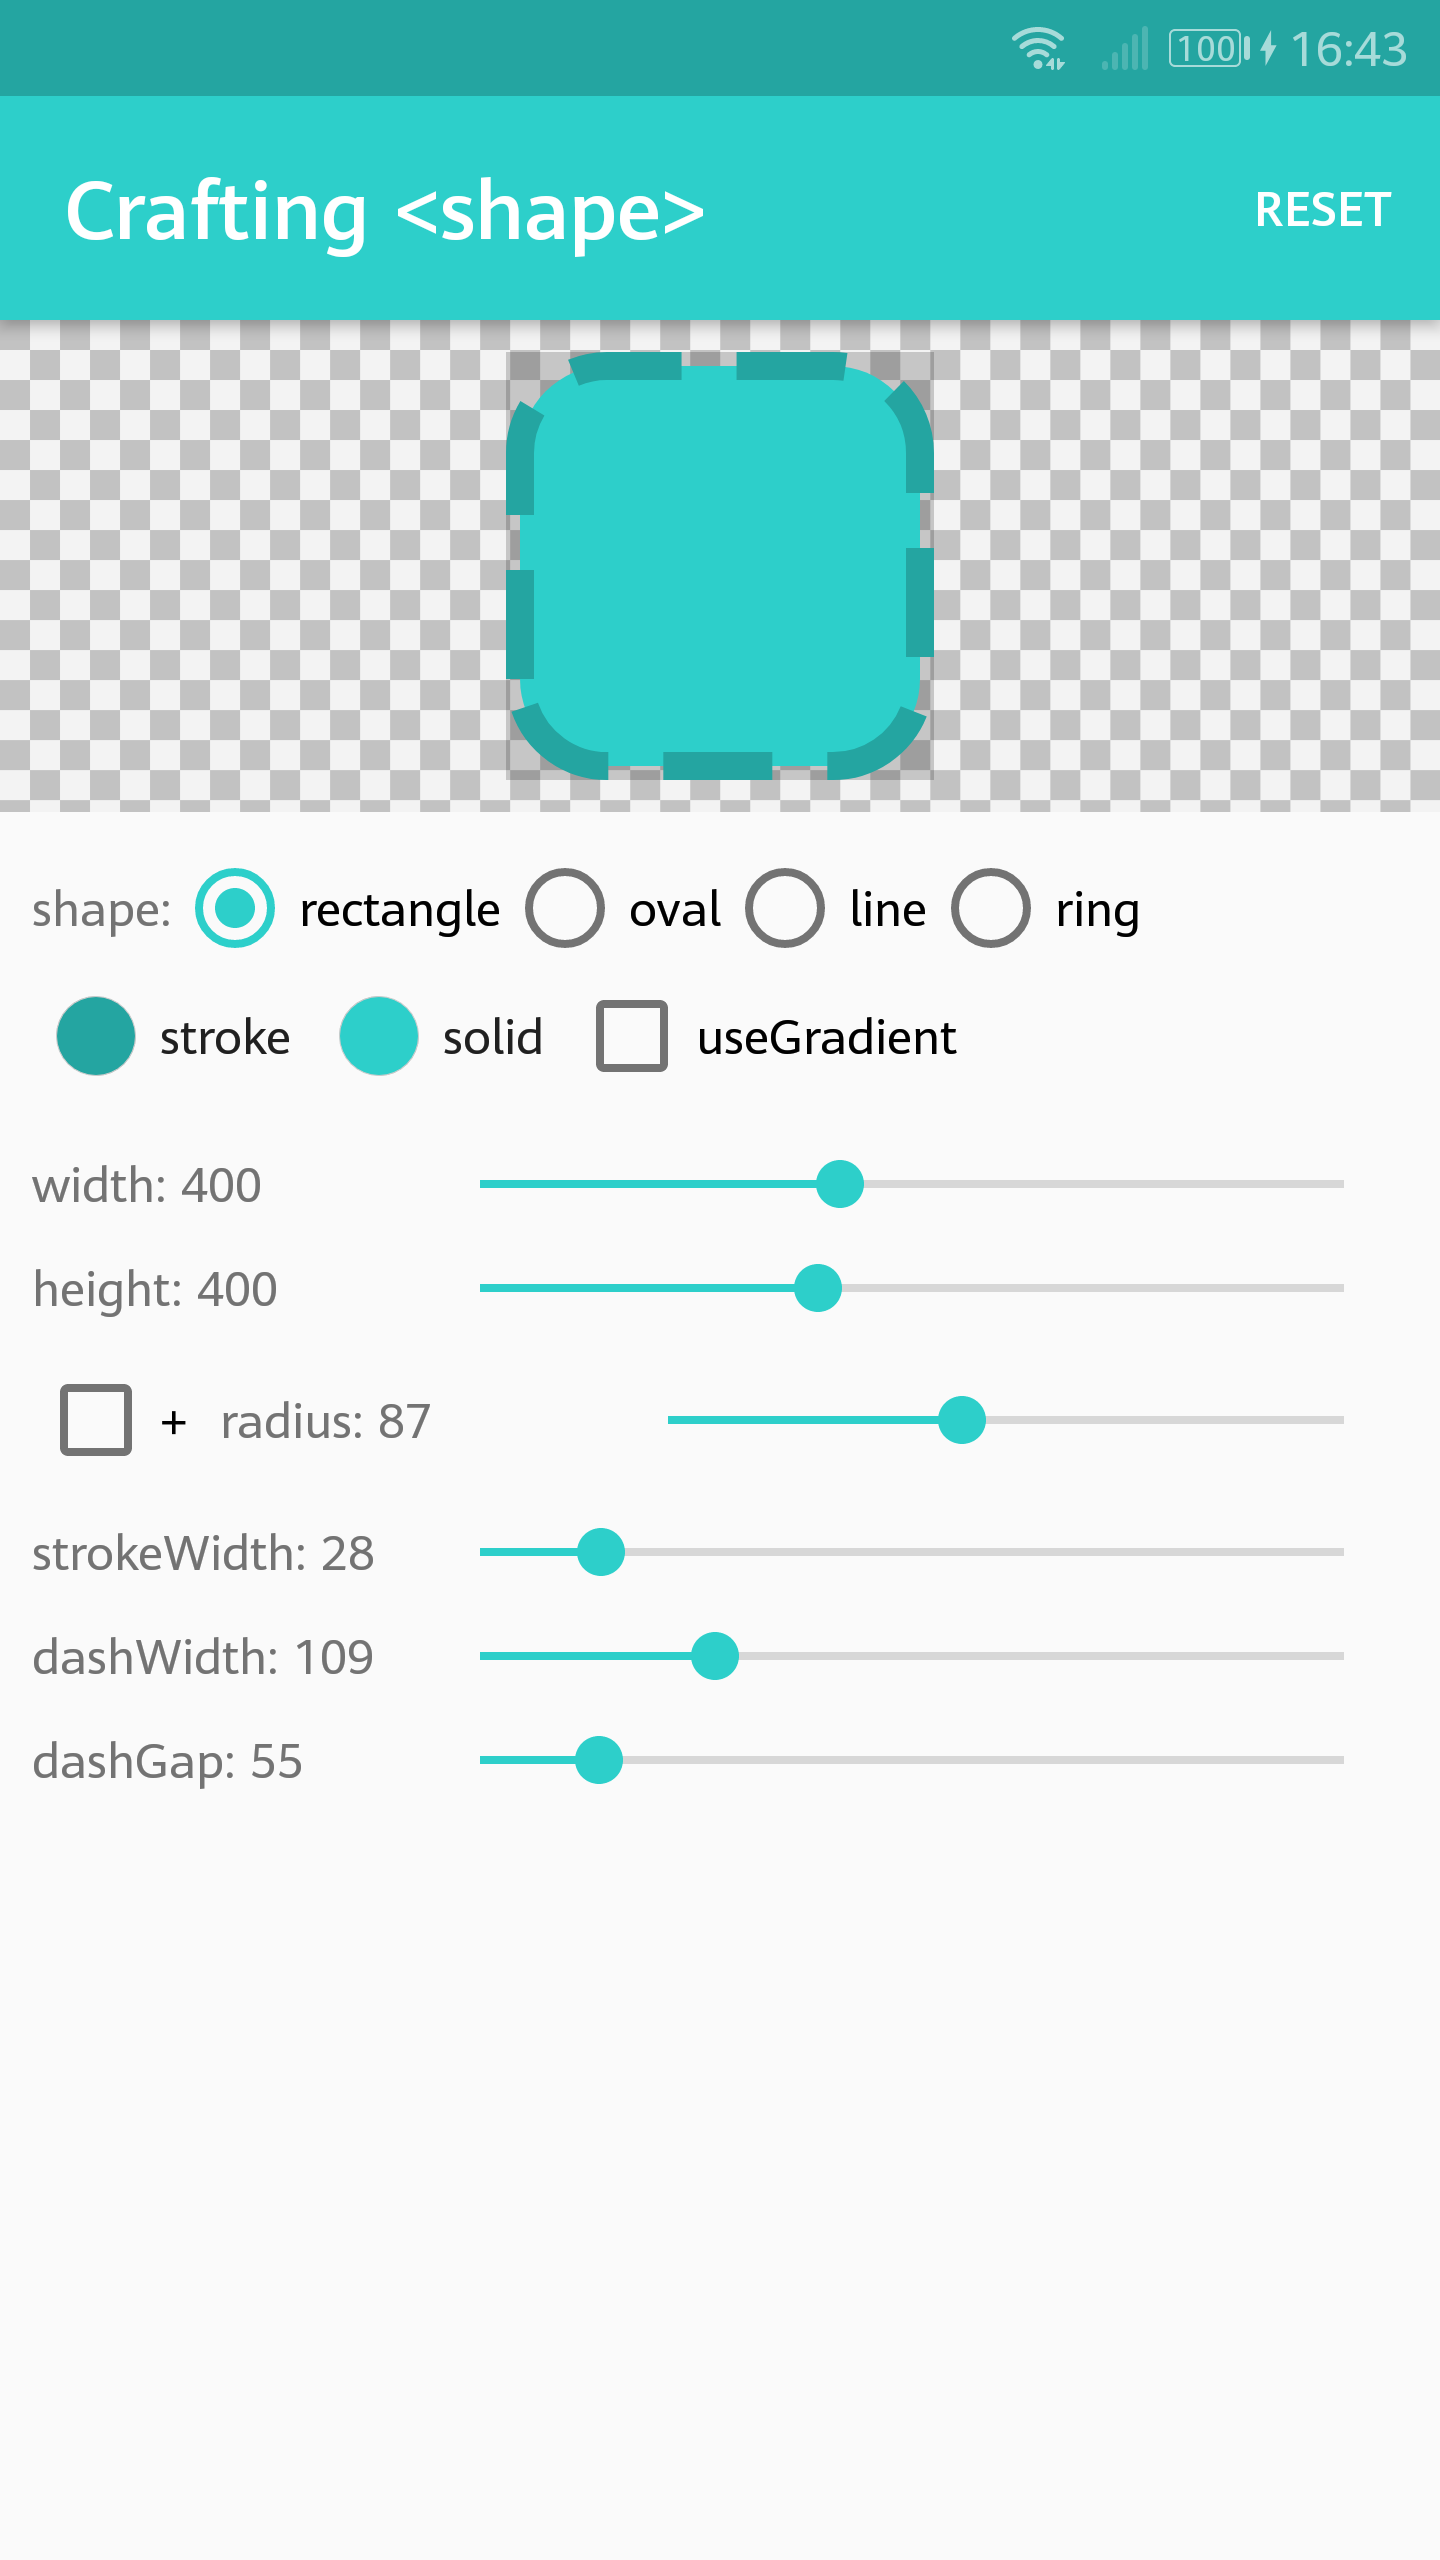
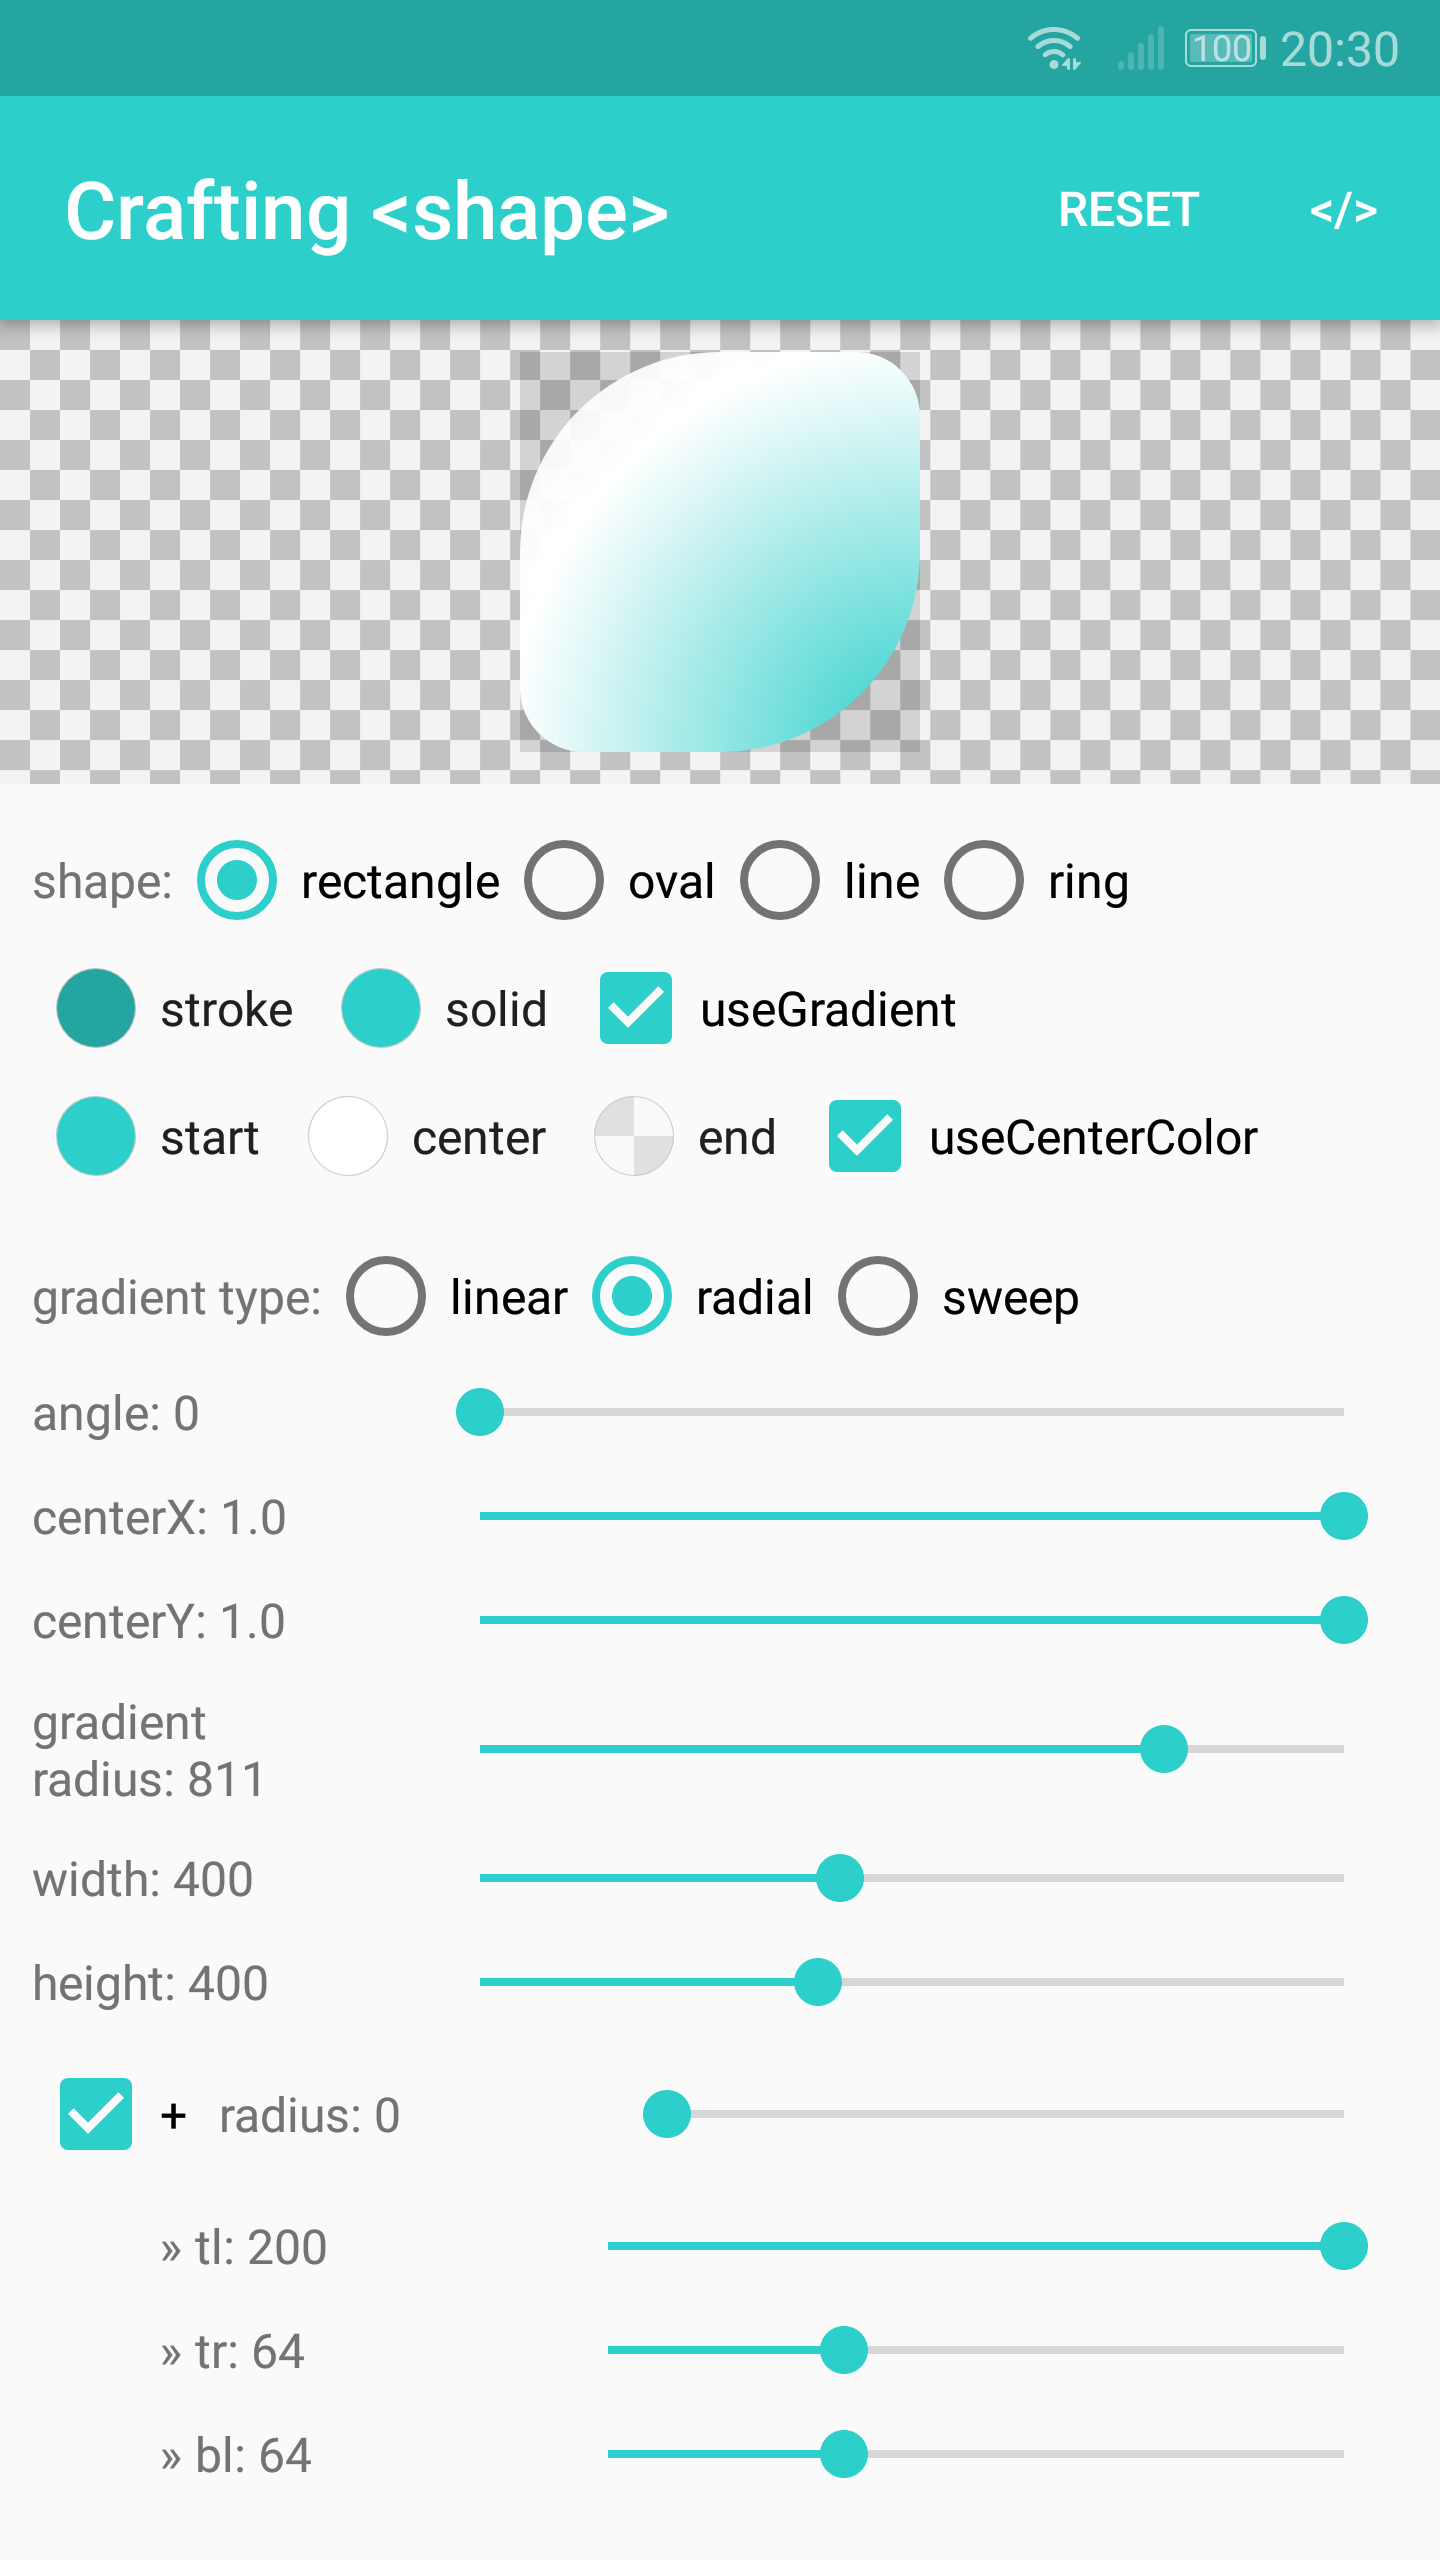
Release 1.1-beta.
Generate the <shape> xml code for you.

diff --git a/README.md b/README.md
@@ -4,8 +4,13 @@ Get confusing about the <shape> drawable in Android? Try playing with `GradientD
 
 [![Get it on Google Play](art/en-play-badge.png)][1]
 
+## Features
+
+* Almost all of the `<shape>`'s properties can be tuned.
+* Generate the xml code which can build the `<shape>` you just crafted.
+
 ## Screen shots
 
-<img src='art/screen-shot-1.png' height='500px'/> <img src='art/screen-shot-2.png' height='500px'/> <img src='art/screen-shot-3.png' height='500px'/> <img src='art/screen-shot-4.png' height='500px'/> <img src='art/screen-video.gif' height='500px'/>
+<img src='art/screen-shot-1.png' height='500px'/> <img src='art/screen-shot-2.png' height='500px'/> <img src='art/screen-shot-3.png' height='500px'/> <img src='art/screen-shot-4.png' height='500px'/> <img src='art/screen-shot-5.png' height='500px'/> <img src='art/screen-video.gif' height='500px'/>
 
  [1]: https://play.google.com/store/apps/details?id=top.defaults.gradientdrawabletuner
